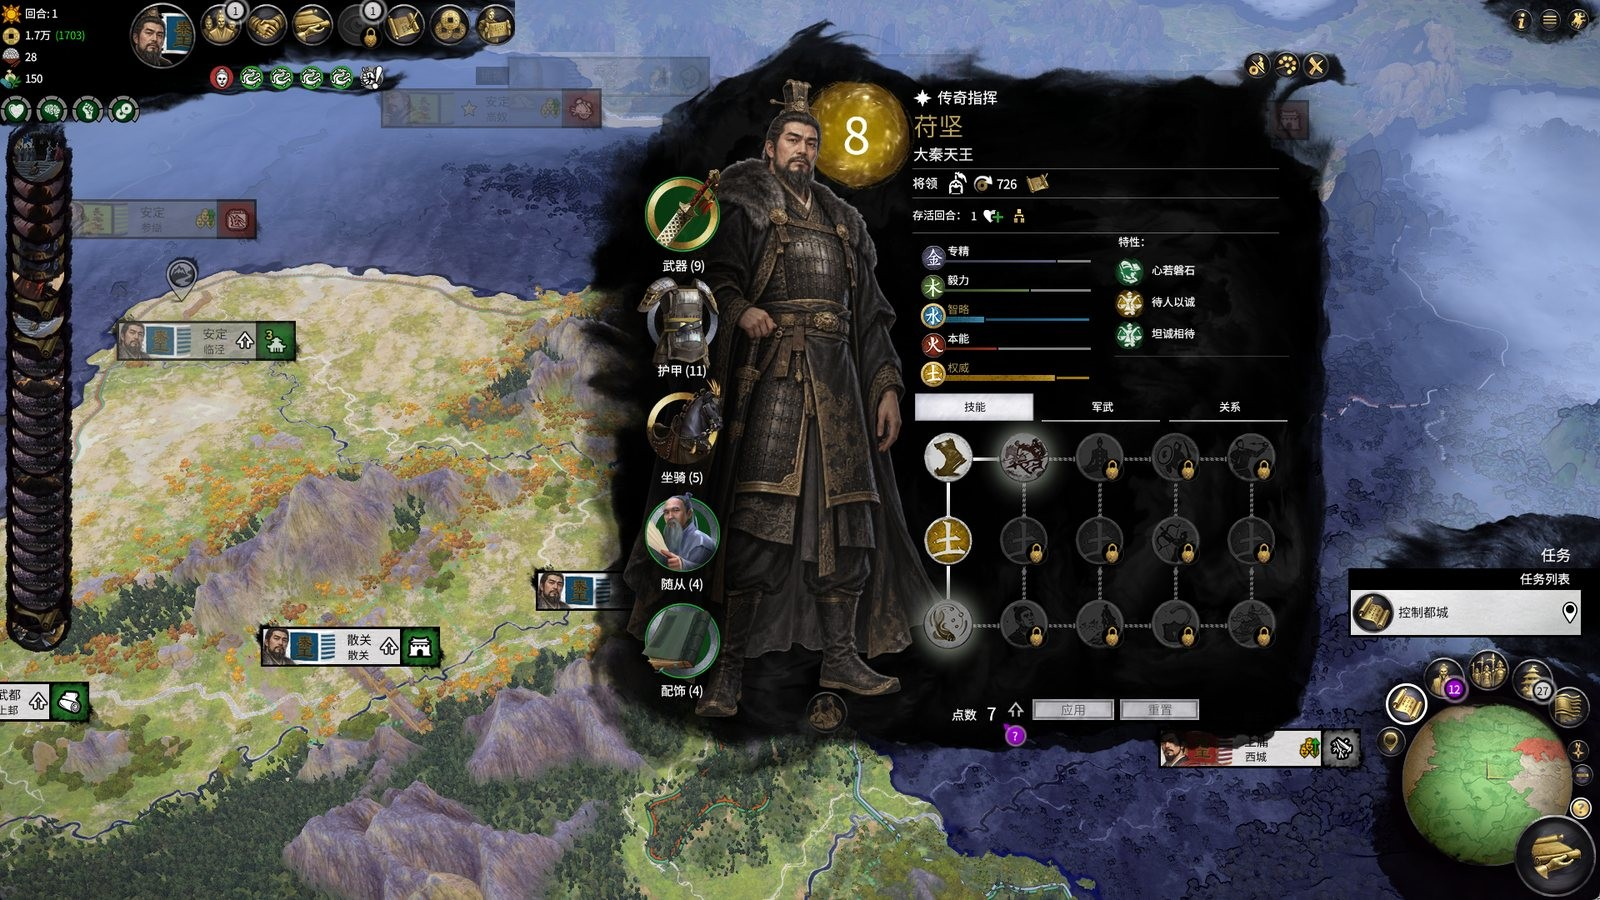
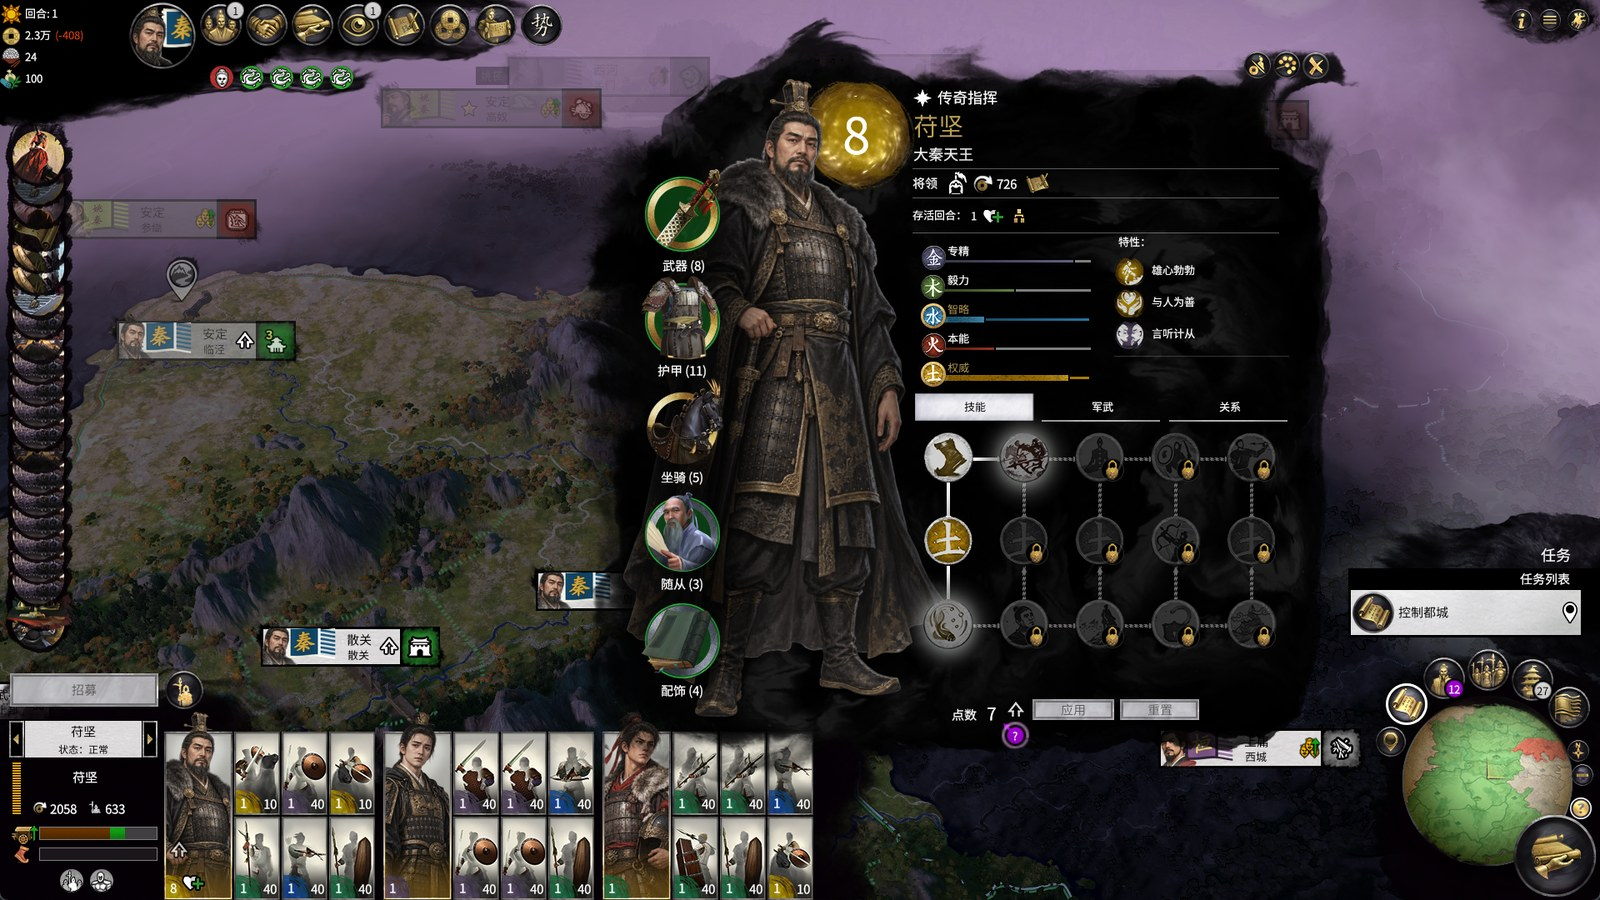
384：五张截图全部改成只开 384 时重拍（慕容垂、苻坚人物面板、百战之余、三将一军）；宣战那张换成姚苌攻打安定的战前界面

diff --git a/全战三国/384/README.md b/全战三国/384/README.md
@@ -140,7 +140,7 @@
 </tr>
 <tr>
 <td><img src="images/shot_map_flags.jpg" alt="战役地图上的字旗"><br><sub>战役地图上的<b>字旗</b>：慕容垂的「燕」、邺城一线苻丕的「長樂」、丁零翟斌的「翟」。</sub></td>
-<td><img src="images/shot_war_declared.jpg" alt="苻坚对翟斌宣战"><br><sub><b>苻坚对翟斌宣战</b>：幽州的王永也来求援，宗主只好向丁零宣战。外交事件里用的都是各人自己的立绘。</sub></td>
+<td><img src="images/shot_siege_anding.jpg" alt="姚苌攻打安定"><br><sub><b>姚苌攻打安定</b>：第 3 回合姚苌来攻苻坚的临泾，战前界面上是两家 384 年的字旗「秦」「姚秦」和各自的立绘。</sub></td>
 </tr>
 <tr>
 <td><img src="images/shot_jin_imperial_court.jpg" alt="晋的三公九卿"><br><sub>晋一开局就是<b>三公九卿</b>的皇宫府署（这张是按等级自动补满时的样子；现在按史实只封史书载明 384 年在任的四人：录尚书事谢安、司徒司马道子、尚书令谢石、中书令王献之，其余由玩家自己封）。</sub></td>
